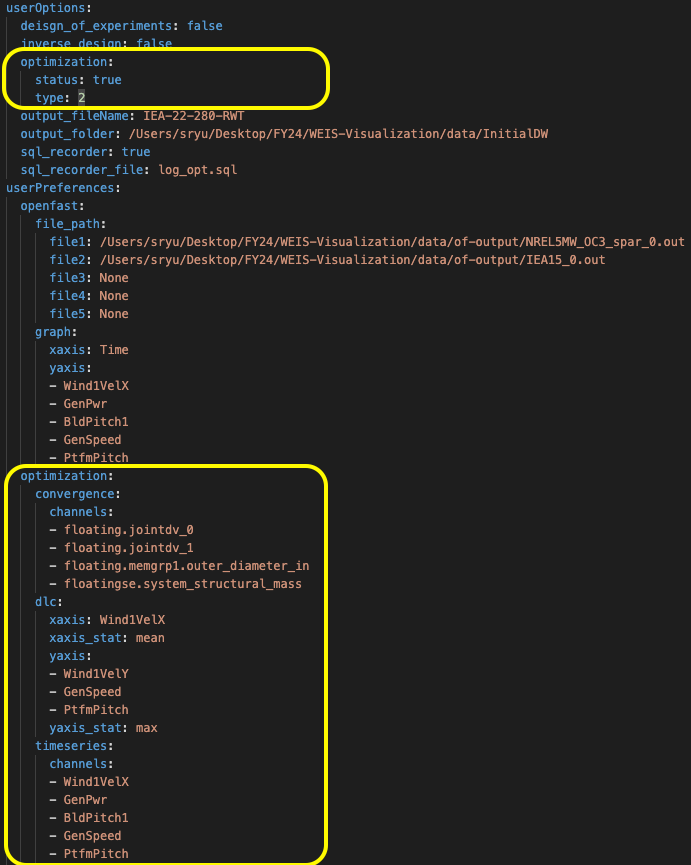
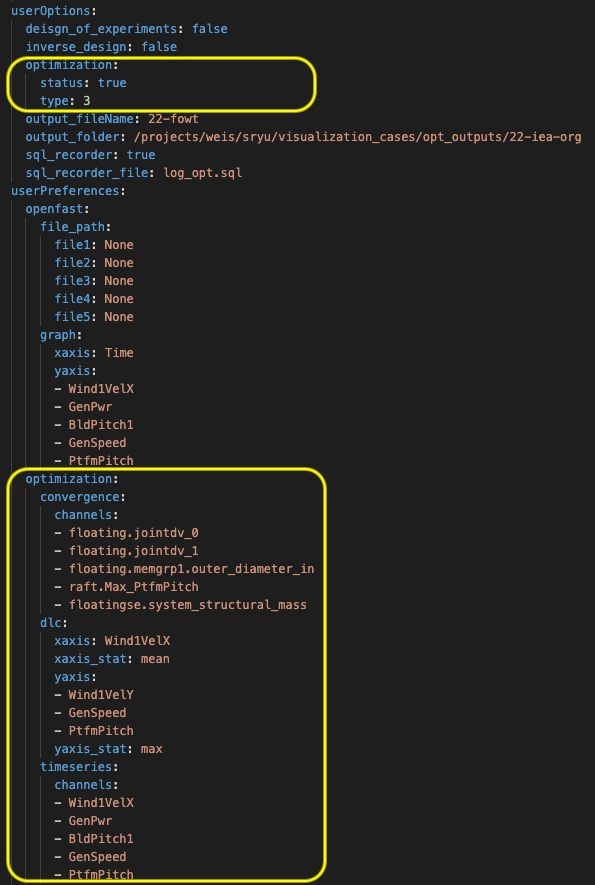
update on docs after changing opt type setting

diff --git a/docs/how_weis_viz_works.rst b/docs/how_weis_viz_works.rst
@@ -151,7 +151,7 @@ Optimization
 OpenFAST optimization
 *********************
 
-First, we need to check if the optimization type is correct. For OpenFAST Optimization, please check if status is true and type is 2 from the userOptions/optimization. Then, we read design constraints and variables from userPreferences/optimization.
+First, we need to check if the optimization type is correct. For OpenFAST Optimization, please check if status is true and type is 3 from the userOptions/optimization. Then, we read design constraints and variables from userPreferences/optimization.
 
 .. image:: ../images/viz/of_opt_yaml.png
 
